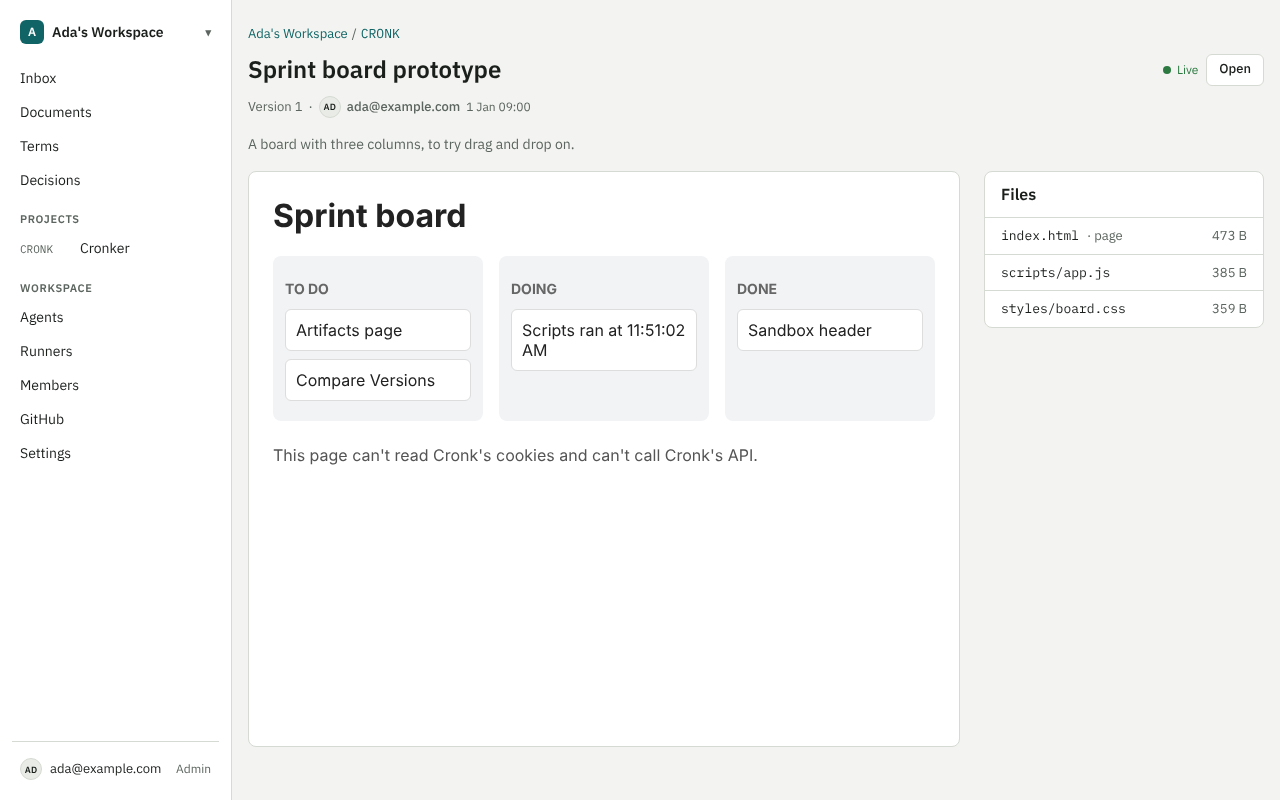
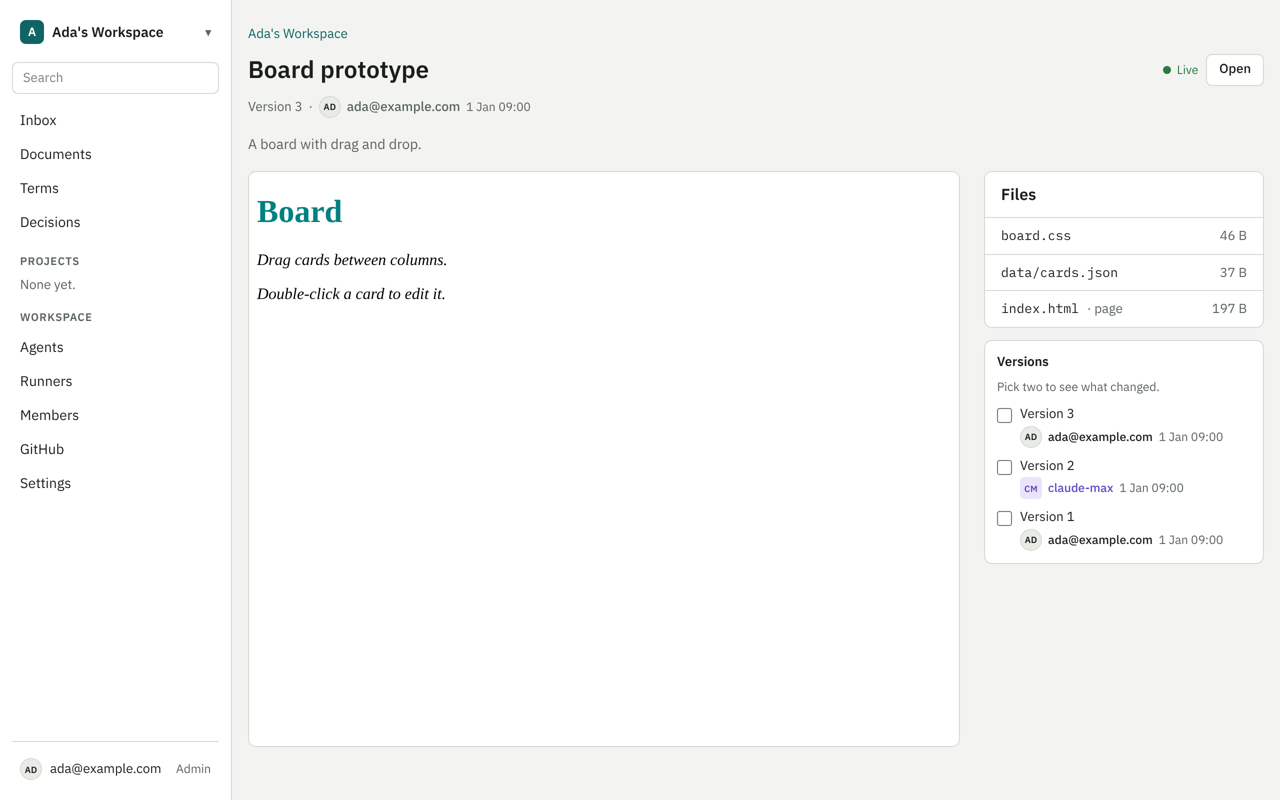
feat(web): an Artifact's Versions, with who saved each, compared file by file
The Artifact's page lists its Versions, newest first, each with its Actor and
time; picking two shows each file that differs, marked Added, Removed or
Changed, with its Diff. A file's ending newline no longer reads as an empty
last line.

diff --git a/web/src/artifacts.tsx b/web/src/artifacts.tsx
@@ -1,10 +1,14 @@
 import { useCallback, useEffect, useRef, useState } from "react";
-import { api, type Artifact, type ProjectSummary, type Workspace } from "./api.js";
+import { api, type Artifact, type ArtifactComparison, type ArtifactVersion, type ComparedFile, type ProjectSummary, type Workspace } from "./api.js";
 import { sized } from "./attachments.js";
 import { VersionMeta } from "./documents.js";
 import { usePlace } from "./frame.js";
 import { useLatest, useLiveEvents } from "./live.js";
-import { buttonClass, FormError, LiveIndicator, PageHead, Panel, workspaceCrumb } from "./ui/controls.js";
+import { Actor } from "./ui/actor.js";
+import { buttonClass, FormError, LiveIndicator, PageHead, Panel, RelativeTime, workspaceCrumb } from "./ui/controls.js";
+import { Diff } from "./ui/diff.js";
+import { Chip, type Tone } from "./ui/labels.js";
+import { Dialog } from "./ui/overlays.js";
 
 /**
  * An Artifact's page: the Artifact itself in an iframe sandboxed as its address serves it, scripts allowed and its
@@ -89,8 +93,100 @@ export function ArtifactScreen({
               ))}
             </ul>
           </Panel>
+          {/* A new Version remounts the list, so it reads afresh. */}
+          <ArtifactVersions key={artifact.version.number} artifactId={artifact.id} />
         </aside>
       </div>
+    </div>
+  );
+}
+
+/** An Artifact's Versions, newest first, each with who saved it and when: pick two to see what changed, file by file. */
+function ArtifactVersions({ artifactId }: { artifactId: string }) {
+  const [versions, setVersions] = useState<ArtifactVersion[] | null>(null);
+  const [picked, setPicked] = useState<number[]>([]);
+  const [comparison, setComparison] = useState<ArtifactComparison | null>(null);
+  const [failure, setFailure] = useState<string | null>(null);
+  useEffect(() => {
+    api.artifactVersions(artifactId).then(setVersions, (e: Error) => setFailure(e.message));
+  }, [artifactId]);
+
+  const pick = (number: number, on: boolean) => {
+    const next = on ? [...picked.filter((n) => n !== number), number].slice(-2) : picked.filter((n) => n !== number);
+    setPicked(next);
+    if (next.length === 2) {
+      api.compareArtifactVersions(artifactId, Math.min(...next), Math.max(...next)).then(setComparison, (e: Error) => setFailure(e.message));
+    }
+  };
+
+  if (!versions) return failure ? <FormError error={failure} /> : null;
+  return (
+    <section aria-label="Versions" className="panel side-section">
+      <h2 className="side-title">Versions</h2>
+      {versions.length > 1 && <p className="muted small">Pick two to see what changed.</p>}
+      <ol className="version-list">
+        {[...versions].reverse().map((version) => (
+          <li key={version.number}>
+            {versions.length > 1 && (
+              <input
+                type="checkbox"
+                aria-label={`Compare Version ${version.number}`}
+                checked={picked.includes(version.number)}
+                onChange={(e) => pick(version.number, e.target.checked)}
+              />
+            )}
+            <span className="version-item">
+              <span>Version {version.number}</span>
+              <span className="version-by">
+                <Actor actor={version.actor} /> <RelativeTime at={version.savedAt} />
+              </span>
+            </span>
+          </li>
+        ))}
+      </ol>
+      <FormError error={failure} />
+      <Dialog
+        open={comparison !== null}
+        onOpenChange={(open) => {
+          if (!open) {
+            setComparison(null);
+            setPicked([]);
+          }
+        }}
+        title="What changed"
+        wide
+      >
+        {comparison && <ComparedFiles comparison={comparison} />}
+      </Dialog>
+    </section>
+  );
+}
+
+const changeShown: Record<ComparedFile["change"], { label: string; tone: Tone }> = {
+  added: { label: "Added", tone: "ok" },
+  removed: { label: "Removed", tone: "warn" },
+  changed: { label: "Changed", tone: "neutral" },
+};
+
+/** Each file that differs between two Versions, by path: whether it was added, removed or changed, and its Diff. */
+function ComparedFiles({ comparison }: { comparison: ArtifactComparison }) {
+  const { from, to, files } = comparison;
+  if (files.length === 0) return <p className="muted">No file changed between Version {from.number} and Version {to.number}.</p>;
+  return (
+    <div className="compared-files">
+      {files.map((file) => (
+        <section key={file.path} aria-label={file.path} className="compared-file">
+          <h3 className="compared-file-head">
+            <span className="mono">{file.path}</span>
+            <Chip tone={changeShown[file.change].tone}>{changeShown[file.change].label}</Chip>
+          </h3>
+          {file.text ? (
+            <Diff from={`Version ${from.number}`} to={`Version ${to.number}`} lines={file.lines} label={`${file.path} compared`} />
+          ) : (
+            <p className="muted small">Not text, so not compared line by line.</p>
+          )}
+        </section>
+      ))}
     </div>
   );
 }

diff --git a/e2e/artifacts.spec.ts b/e2e/artifacts.spec.ts
@@ -75,7 +75,7 @@ test("an Artifact's page shows it in a sandboxed iframe, where its scripts run b
 
   await expect(page.getByRole("heading", { name: "Probe" })).toBeVisible();
   await expect(page.getByText("What a sandboxed page can reach.")).toBeVisible();
-  await expect(page.getByText("Version 1")).toBeVisible();
+  await expect(page.locator(".page-head-meta")).toContainText("Version 1");
   const frame = page.locator("iframe");
   await expect(frame).toHaveAttribute("sandbox", "allow-scripts");
   await expect(frame).toHaveAttribute("title", "Probe");
@@ -91,4 +91,61 @@ test("an Artifact's page shows it in a sandboxed iframe, where its scripts run b
   // Nothing it sent changed anything as the signed-in User.
   const { workspaces } = await (await cronk.request("GET", "/api/me", { cookie })).json();
   expect(workspaces.map((w: { name: string }) => w.name)).toEqual([workspace.name]);
+});
+
+test("an Artifact's page lists its Versions, who saved each and when, and compares two file by file, showing files added and removed", async ({
+  page,
+  cronk,
+}) => {
+  const { workspace } = await setUp(cronk);
+  const cookie = await signIn(cronk);
+  const agent = await (await cronk.request("POST", `/api/workspaces/${workspace.id}/agents`, { cookie, body: { name: "claude-max" } })).json();
+  const token = await (await cronk.request("POST", `/api/agents/${agent.id}/tokens`, { cookie, body: { name: "laptop", access: "full" } })).json();
+  const created = await cronk.request("POST", `/api/workspaces/${workspace.id}/artifacts`, {
+    cookie,
+    body: {
+      title: "Board prototype",
+      files: [
+        { path: "index.html", contentBase64: base64("<h1>Board</h1>\n<p>Drag cards.</p>") },
+        { path: "app.js", contentBase64: base64("start();") },
+      ],
+    },
+  });
+  const artifact = await created.json();
+  const saved = await cronk.request("PATCH", `/api/artifacts/${artifact.id}`, {
+    headers: { authorization: `Bearer ${token.secret}` },
+    body: {
+      baseVersion: 1,
+      files: [
+        { path: "index.html", contentBase64: base64("<h1>Board</h1>\n<p>Drag cards between columns.</p>") },
+        { path: "data/cards.json", contentBase64: base64('["Write the spec"]') },
+      ],
+      remove: ["app.js"],
+    },
+  });
+  expect(saved.status).toBe(200);
+  await signInInBrowser(page, cronk);
+
+  await page.goto(`${cronk.url}/artifacts/${artifact.id}`);
+
+  const versions = page.getByRole("region", { name: "Versions" });
+  await expect(versions.getByRole("listitem")).toHaveText([/Version 2.*claude-max/, /Version 1.*ada@example\.com/]);
+  await versions.getByLabel("Compare Version 1").check();
+  await versions.getByLabel("Compare Version 2").check();
+
+  const dialog = page.getByRole("dialog", { name: "What changed" });
+  const fileShown = (path: string) => dialog.getByRole("region", { name: path, exact: true });
+  await expect(fileShown("app.js")).toContainText("Removed");
+  await expect(fileShown("app.js").locator("del")).toHaveText("start();");
+  await expect(fileShown("data/cards.json")).toContainText("Added");
+  await expect(fileShown("data/cards.json").locator("ins")).toHaveText('["Write the spec"]');
+  const changed = fileShown("index.html");
+  await expect(changed).toContainText("Changed");
+  await expect(changed.locator("del")).toHaveText("<p>Drag cards.</p>");
+  await expect(changed.locator("ins")).toHaveText("<p>Drag cards between columns.</p>");
+
+  // A save from elsewhere joins the list in place.
+  await cronk.request("PATCH", `/api/artifacts/${artifact.id}`, { cookie, body: { baseVersion: 2, title: "Board" } });
+  await page.keyboard.press("Escape");
+  await expect(versions.getByRole("listitem")).toHaveCount(3);
 });

diff --git a/web/src/api.ts b/web/src/api.ts
@@ -612,6 +612,28 @@ export interface Artifact {
   files: ArtifactFile[];
 }
 
+/** One saved state of an Artifact: who saved it and when. */
+export interface ArtifactVersion {
+  number: number;
+  actor: Actor;
+  savedAt: string;
+}
+
+/** A file that differs between two of an Artifact's Versions, its text compared line by line when it is text. */
+export interface ComparedFile {
+  path: string;
+  change: "added" | "removed" | "changed";
+  text: boolean;
+  lines: ComparedLine[];
+}
+
+/** Two of an Artifact's Versions, with the files that differ between them. */
+export interface ArtifactComparison {
+  from: ArtifactVersion;
+  to: ArtifactVersion;
+  files: ComparedFile[];
+}
+
 /** A Document linked to a Ticket, from its Project's page tree or the Workspace's. */
 export interface LinkedDocument {
   id: string;
@@ -937,6 +959,9 @@ export const api = {
     call<Document>("POST", treePath(tree), input),
   document: (id: string) => call<Document>("GET", doc(id)),
   artifact: (id: string) => call<Artifact>("GET", `/api/artifacts/${encodeURIComponent(id)}`),
+  artifactVersions: (id: string) => call<ArtifactVersion[]>("GET", `/api/artifacts/${encodeURIComponent(id)}/versions`),
+  compareArtifactVersions: (id: string, from: number, to: number) =>
+    call<ArtifactComparison>("GET", `/api/artifacts/${encodeURIComponent(id)}/versions/compare?from=${from}&to=${to}`),
   editDocument: (id: string, edit: DocumentEdit) => call<Document>("PATCH", doc(id), edit),
   deleteDocument: (id: string) => call<void>("DELETE", doc(id)),
   versions: (documentId: string) => call<Version[]>("GET", `${doc(documentId)}/versions`),

diff --git a/server/artifacts/artifacts.ts b/server/artifacts/artifacts.ts
@@ -479,8 +479,13 @@ function textOf(bytes: Buffer): string | undefined {
   }
 }
 
-/** Two texts compared line by line, an empty one counting as no lines rather than one empty line. */
+/**
+ * Two files' texts compared line by line: the newline that ends a file's last line starts no further line, and an
+ * empty file has no lines rather than one empty line.
+ */
 function compareTexts(before: string, after: string): ComparedLine[] {
+  before = before.replace(/\r?\n$/, "");
+  after = after.replace(/\r?\n$/, "");
   if (before === "") return after === "" ? [] : after.split("\n").map((text) => ({ change: "added", text }));
   if (after === "") return before.split("\n").map((text) => ({ change: "removed", text }));
   return compareLines(before, after);

diff --git a/test/api/artifacts.test.ts b/test/api/artifacts.test.ts
@@ -381,7 +381,8 @@ describe("Artifacts", () => {
     const png = (byte: number) => ({ path: "logo.png", contentBase64: Buffer.from([0x89, 0x50, 0x4e, 0x47, 0, byte]).toString("base64") });
     const artifact = await ok("POST", `/api/workspaces/${workspace.id}/artifacts`, ada, {
       title: "Board prototype",
-      files: [file("index.html", page), file("app.js", "start();\nstop();"), png(1)],
+      // A file ending in a newline, as most do, has no empty last line.
+      files: [file("index.html", page), file("app.js", "start();\nstop();\n"), png(1)],
     });
     await ok("PATCH", `/api/artifacts/${artifact.id}`, ada, {
       baseVersion: 1,

diff --git a/web/src/styles/screens.css b/web/src/styles/screens.css
@@ -1202,6 +1202,23 @@
   margin-left: auto;
   white-space: nowrap;
 }
+.compared-files {
+  display: grid;
+  gap: var(--space-5);
+}
+.compared-file {
+  display: grid;
+  gap: var(--space-2);
+}
+.compared-file-head {
+  display: flex;
+  flex-wrap: wrap;
+  align-items: center;
+  gap: var(--space-2);
+  margin: 0;
+  font-size: 14px;
+  overflow-wrap: anywhere;
+}
 
 /* Search results: one group per kind, each result its title, where it is kept and where it matched. */
 .search-results {

diff --git a/test/api/openapi.test.ts b/test/api/openapi.test.ts
@@ -23,6 +23,8 @@ test("OpenAPI documentation is generated from the routes and served", async () =
     "/api/agents/{agentId}/tokens/{tokenId}",
     "/api/artifacts/{artifactId}",
     "/api/artifacts/{artifactId}/file",
+    "/api/artifacts/{artifactId}/versions",
+    "/api/artifacts/{artifactId}/versions/compare",
     "/api/attachments/{attachmentId}",
     "/api/attachments/{attachmentId}/content",
     "/api/comments/{commentId}/attachments",

diff --git a/docs/testing.md b/docs/testing.md
@@ -11,7 +11,7 @@ These are the seams from the milestone 1 spec (#1). Tests live only at them.
 3. **The subscription Runner against a stand-in HTTP server** for the scheduled-task fire endpoint. Every `startCronk()` points Cronk at a stand-in (`test/harness/claude.ts`); the real service is never called. Lives in `test/api/subscription-runner.test.ts`, with Playwright walks through the Runners page, setting one up and removing one, in `e2e/runners.spec.ts`.
 4. **MCP** (thin): a real MCP client (the MCP SDK's) against the running server, for bearer tokens, OAuth and the mapping of tools onto the API. Lives in `test/mcp/` (attaching a file as base64 included, and Artifacts' files); the OAuth flow's rules (consent, codes, refresh, Client ID Metadata Documents) are tested at the API in `test/api/oauth.test.ts`, with one Playwright walk through the consent screen in `e2e/connect.spec.ts`. A test publishes a client's metadata document from its own local HTTP server: a Cronk on plain http, which only a local one may be, accepts plain http metadata document URLs.
 5. **GitHub against a stand-in GitHub.** Every `startCronk()` points Cronk at a stand-in GitHub (`test/harness/github.ts`) for the manifest flow, OAuth sign-in, account lookups, the App's own calls with its JWT (what it has, its webhook, its installations), installation tokens, the repositories an installation covers (listed, or one by id, as after a rename), and the App's signed webhook deliveries with their log and redeliveries; the real GitHub is never called. Sign-in and creating the App live in `test/api/github.test.ts`, upgrading the App, installations and their tokens in `test/api/github-app.test.ts`, webhooks in `test/api/github-webhooks.test.ts`, Repositories on Projects (renames and transfers, and key clashes across Workspaces) in `test/api/repositories.test.ts`, Pull Requests linking to Tickets with their state, checks, review state and producing Step, merges completing their Tickets, and failing checks and requested changes sending them back (Pull Request automation included), in `test/api/pull-requests.test.ts`, with Playwright walks through them in `e2e/github.spec.ts`, `e2e/repositories.spec.ts` and `e2e/pull-requests.spec.ts`. A test sends `pull_request`, `pull_request_review`, `check_run`, `check_suite` and `status` deliveries with only the fields Cronk reads.
-6. **Web UI smoke tests** (Playwright): a few walk the main path in a real browser. The web client holds no rules, so it gets no further tests. Lives in `e2e/`, `e2e/runners-live.spec.ts` among them (an open Runners page following its counts and pause), `e2e/live.spec.ts` (the board, a Ticket, Documents, Terms and Decisions following another member's changes, and the Live indicator turning to Reconnecting… and back, also after a stream answered with an error status), `e2e/attachments.spec.ts` (files dropped or pasted on a Ticket, and the Attachment dialog with Download and Remove), `e2e/inbox-keys.spec.ts` and `e2e/inbox-look.spec.ts` (the Inbox's keys and selection in the address, what its items and detail say, and how it stacks on a phone), `e2e/search.spec.ts` (searching from the sidebar, the results grouped by kind with marked snippets, the Project filter and opening a result), `e2e/artifacts.spec.ts` (an Artifact in its sandboxed iframe and opened directly, its scripts running but unable to read Cronk's cookies or call its API) and `e2e/timeline.spec.ts` (how a Ticket's timeline reads Cronk's send-backs, merges and skipped Steps, its order, day separators and Reply); `e2e/main-path.spec.ts` walks the whole of it with the fake Runner and the stand-in GitHub, from setup through a merged Pull Request moving the card to Done to Accepting that Unverified completion.
+6. **Web UI smoke tests** (Playwright): a few walk the main path in a real browser. The web client holds no rules, so it gets no further tests. Lives in `e2e/`, `e2e/runners-live.spec.ts` among them (an open Runners page following its counts and pause), `e2e/live.spec.ts` (the board, a Ticket, Documents, Terms and Decisions following another member's changes, and the Live indicator turning to Reconnecting… and back, also after a stream answered with an error status), `e2e/attachments.spec.ts` (files dropped or pasted on a Ticket, and the Attachment dialog with Download and Remove), `e2e/inbox-keys.spec.ts` and `e2e/inbox-look.spec.ts` (the Inbox's keys and selection in the address, what its items and detail say, and how it stacks on a phone), `e2e/search.spec.ts` (searching from the sidebar, the results grouped by kind with marked snippets, the Project filter and opening a result), `e2e/artifacts.spec.ts` (an Artifact in its sandboxed iframe and opened directly, its scripts running but unable to read Cronk's cookies or call its API, and its Versions compared file by file) and `e2e/timeline.spec.ts` (how a Ticket's timeline reads Cronk's send-backs, merges and skipped Steps, its order, day separators and Reply); `e2e/main-path.spec.ts` walks the whole of it with the fake Runner and the stand-in GitHub, from setup through a merged Pull Request moving the card to Done to Accepting that Unverified completion.
 
 What a seam can't see, such as that only hashes of secrets are stored, is kept by code review rather than by tests reaching past the seam.
 

diff --git a/docs/ui.md b/docs/ui.md
@@ -224,6 +224,7 @@ The web client keeps its own small component set, styled with the tokens in plai
 
 - The Artifact itself fills an iframe with `sandbox="allow-scripts"`, on white whatever the theme, beside a side list of its files (path, size, which is the page). Its description sits under the page head, whose meta names the current Version; **Open** opens the page on its own, as sandboxed as in the frame.
 - A save from elsewhere shows the new Version in place: each Version has its own address, so the frame loads it afresh.
+- Under the files, its **Versions**, newest first, each with who saved it and when. Picking two shows what changed in a dialog: each file that differs, by path, marked **Added** (`ok` chip), **Removed** (`warn`) or **Changed** (neutral), with its Diff; a file that isn't text says so instead of a Diff. A save from elsewhere joins the list.
 
 ### Search
 
